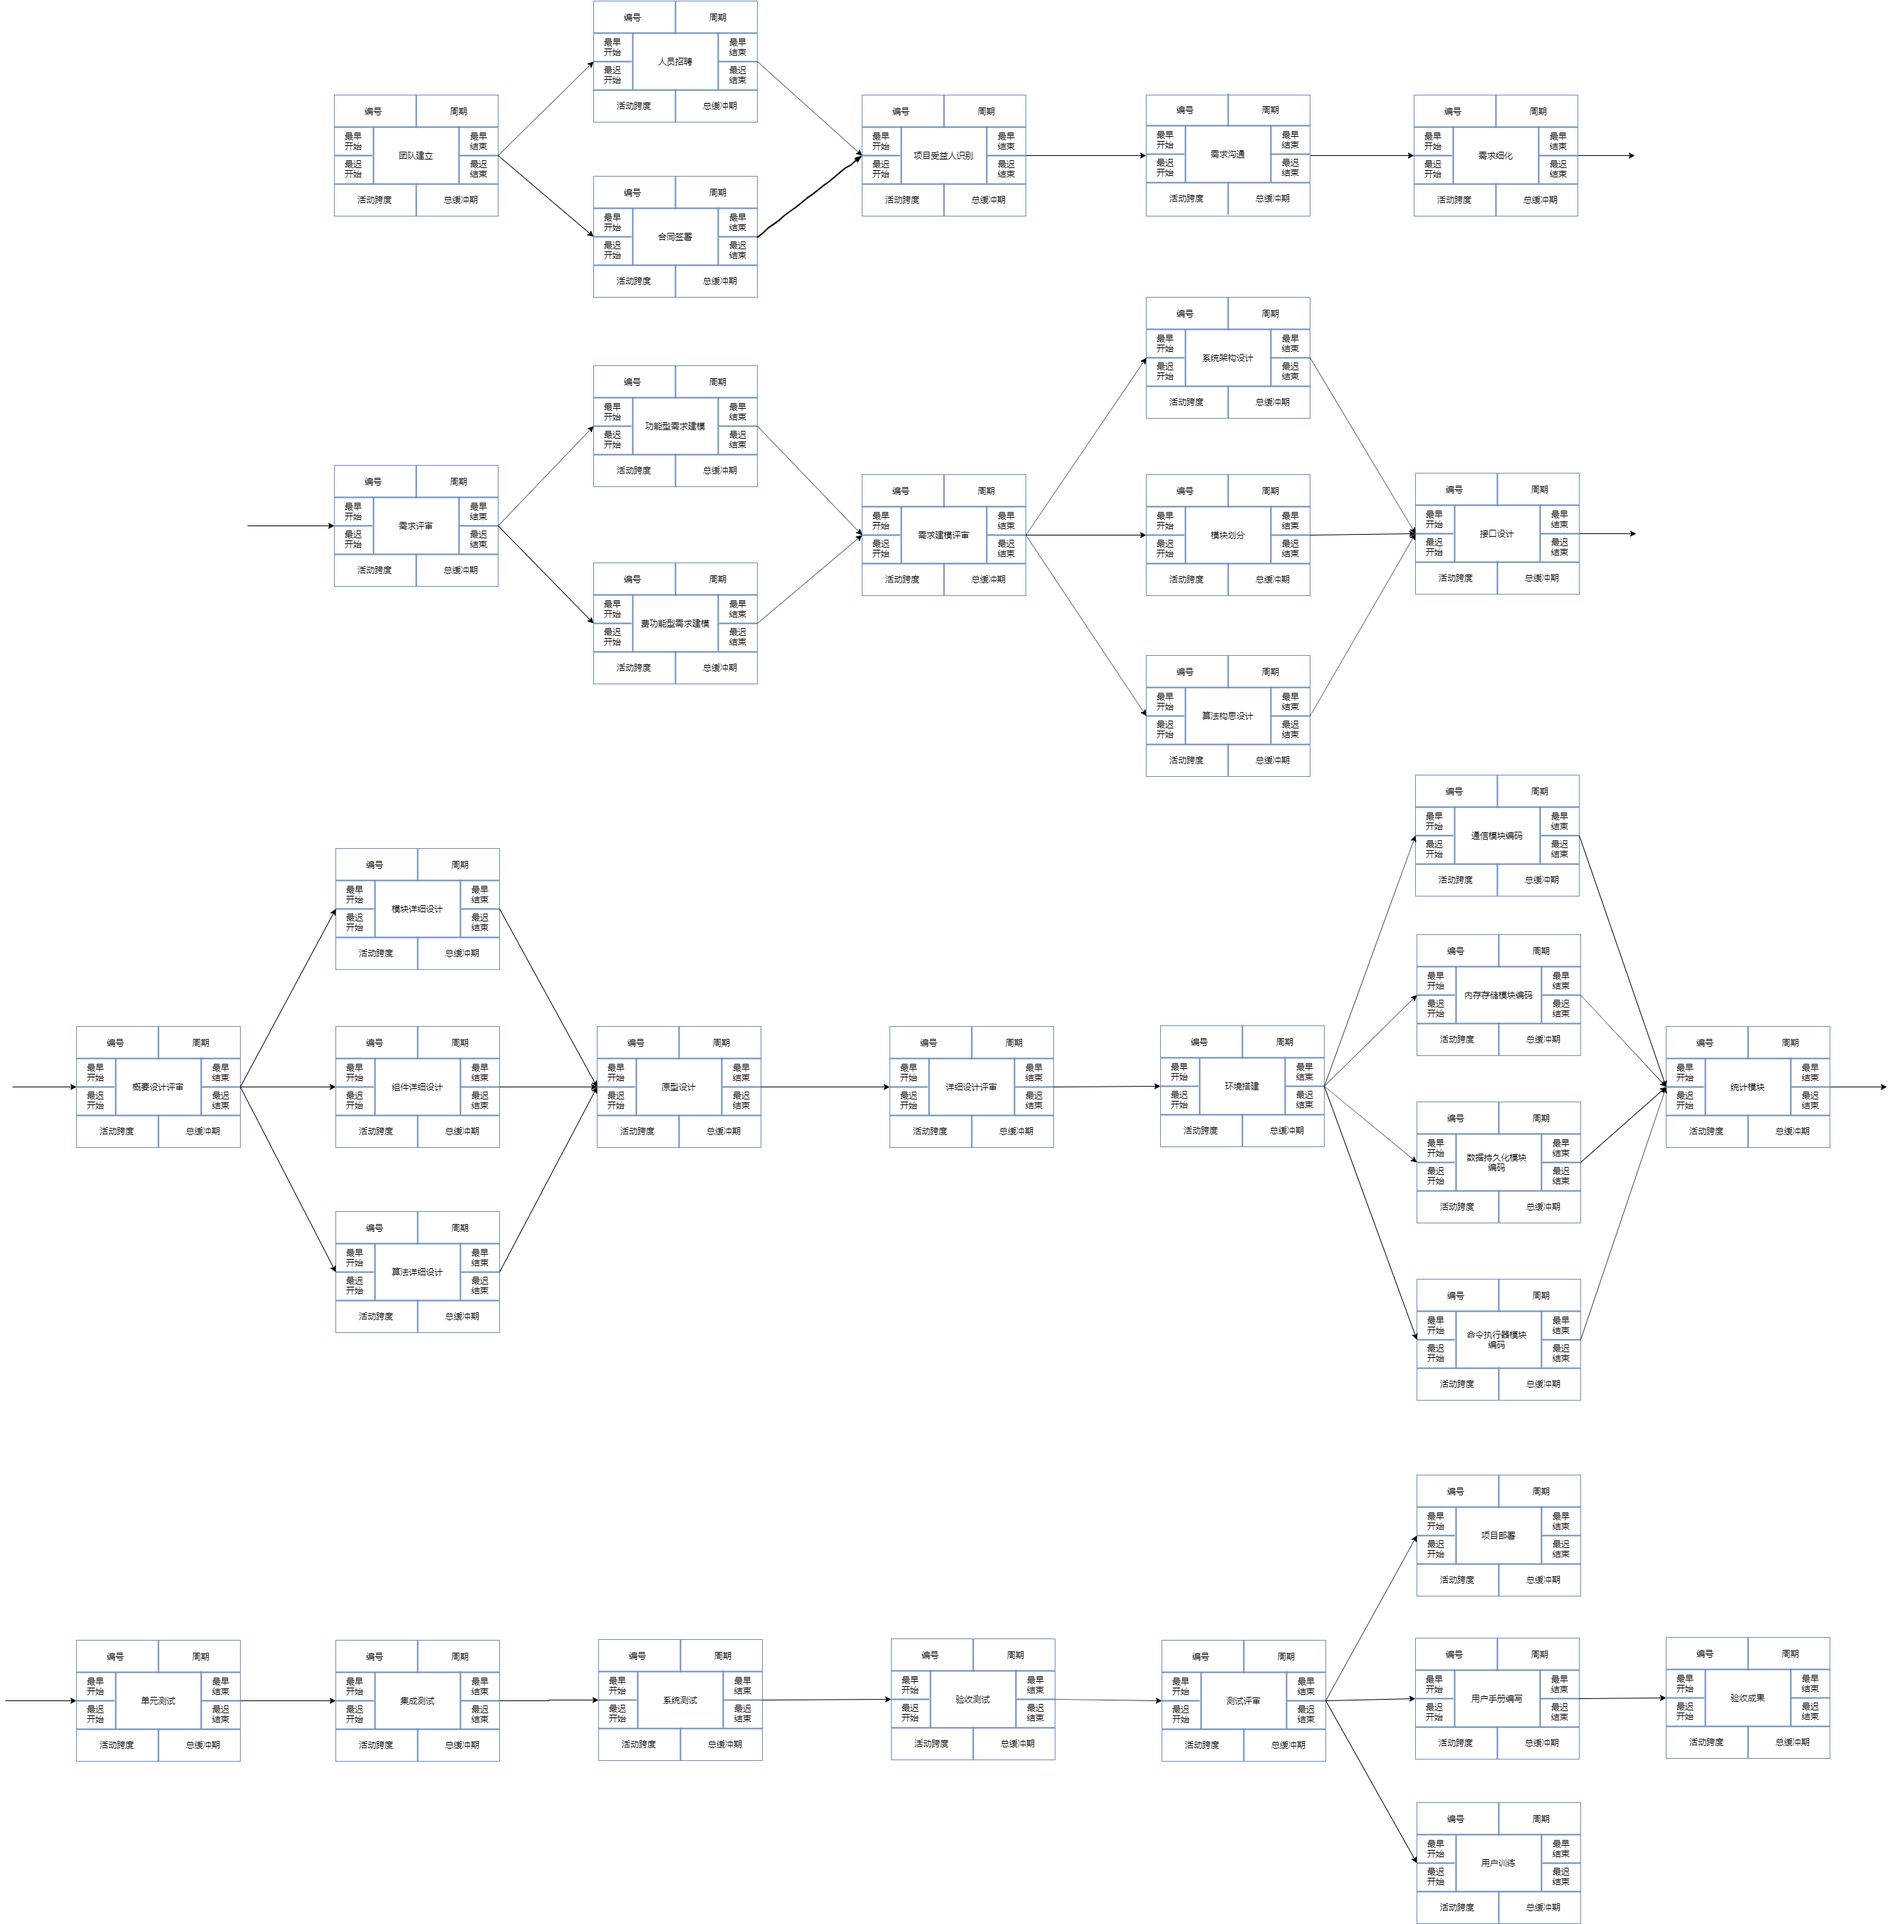
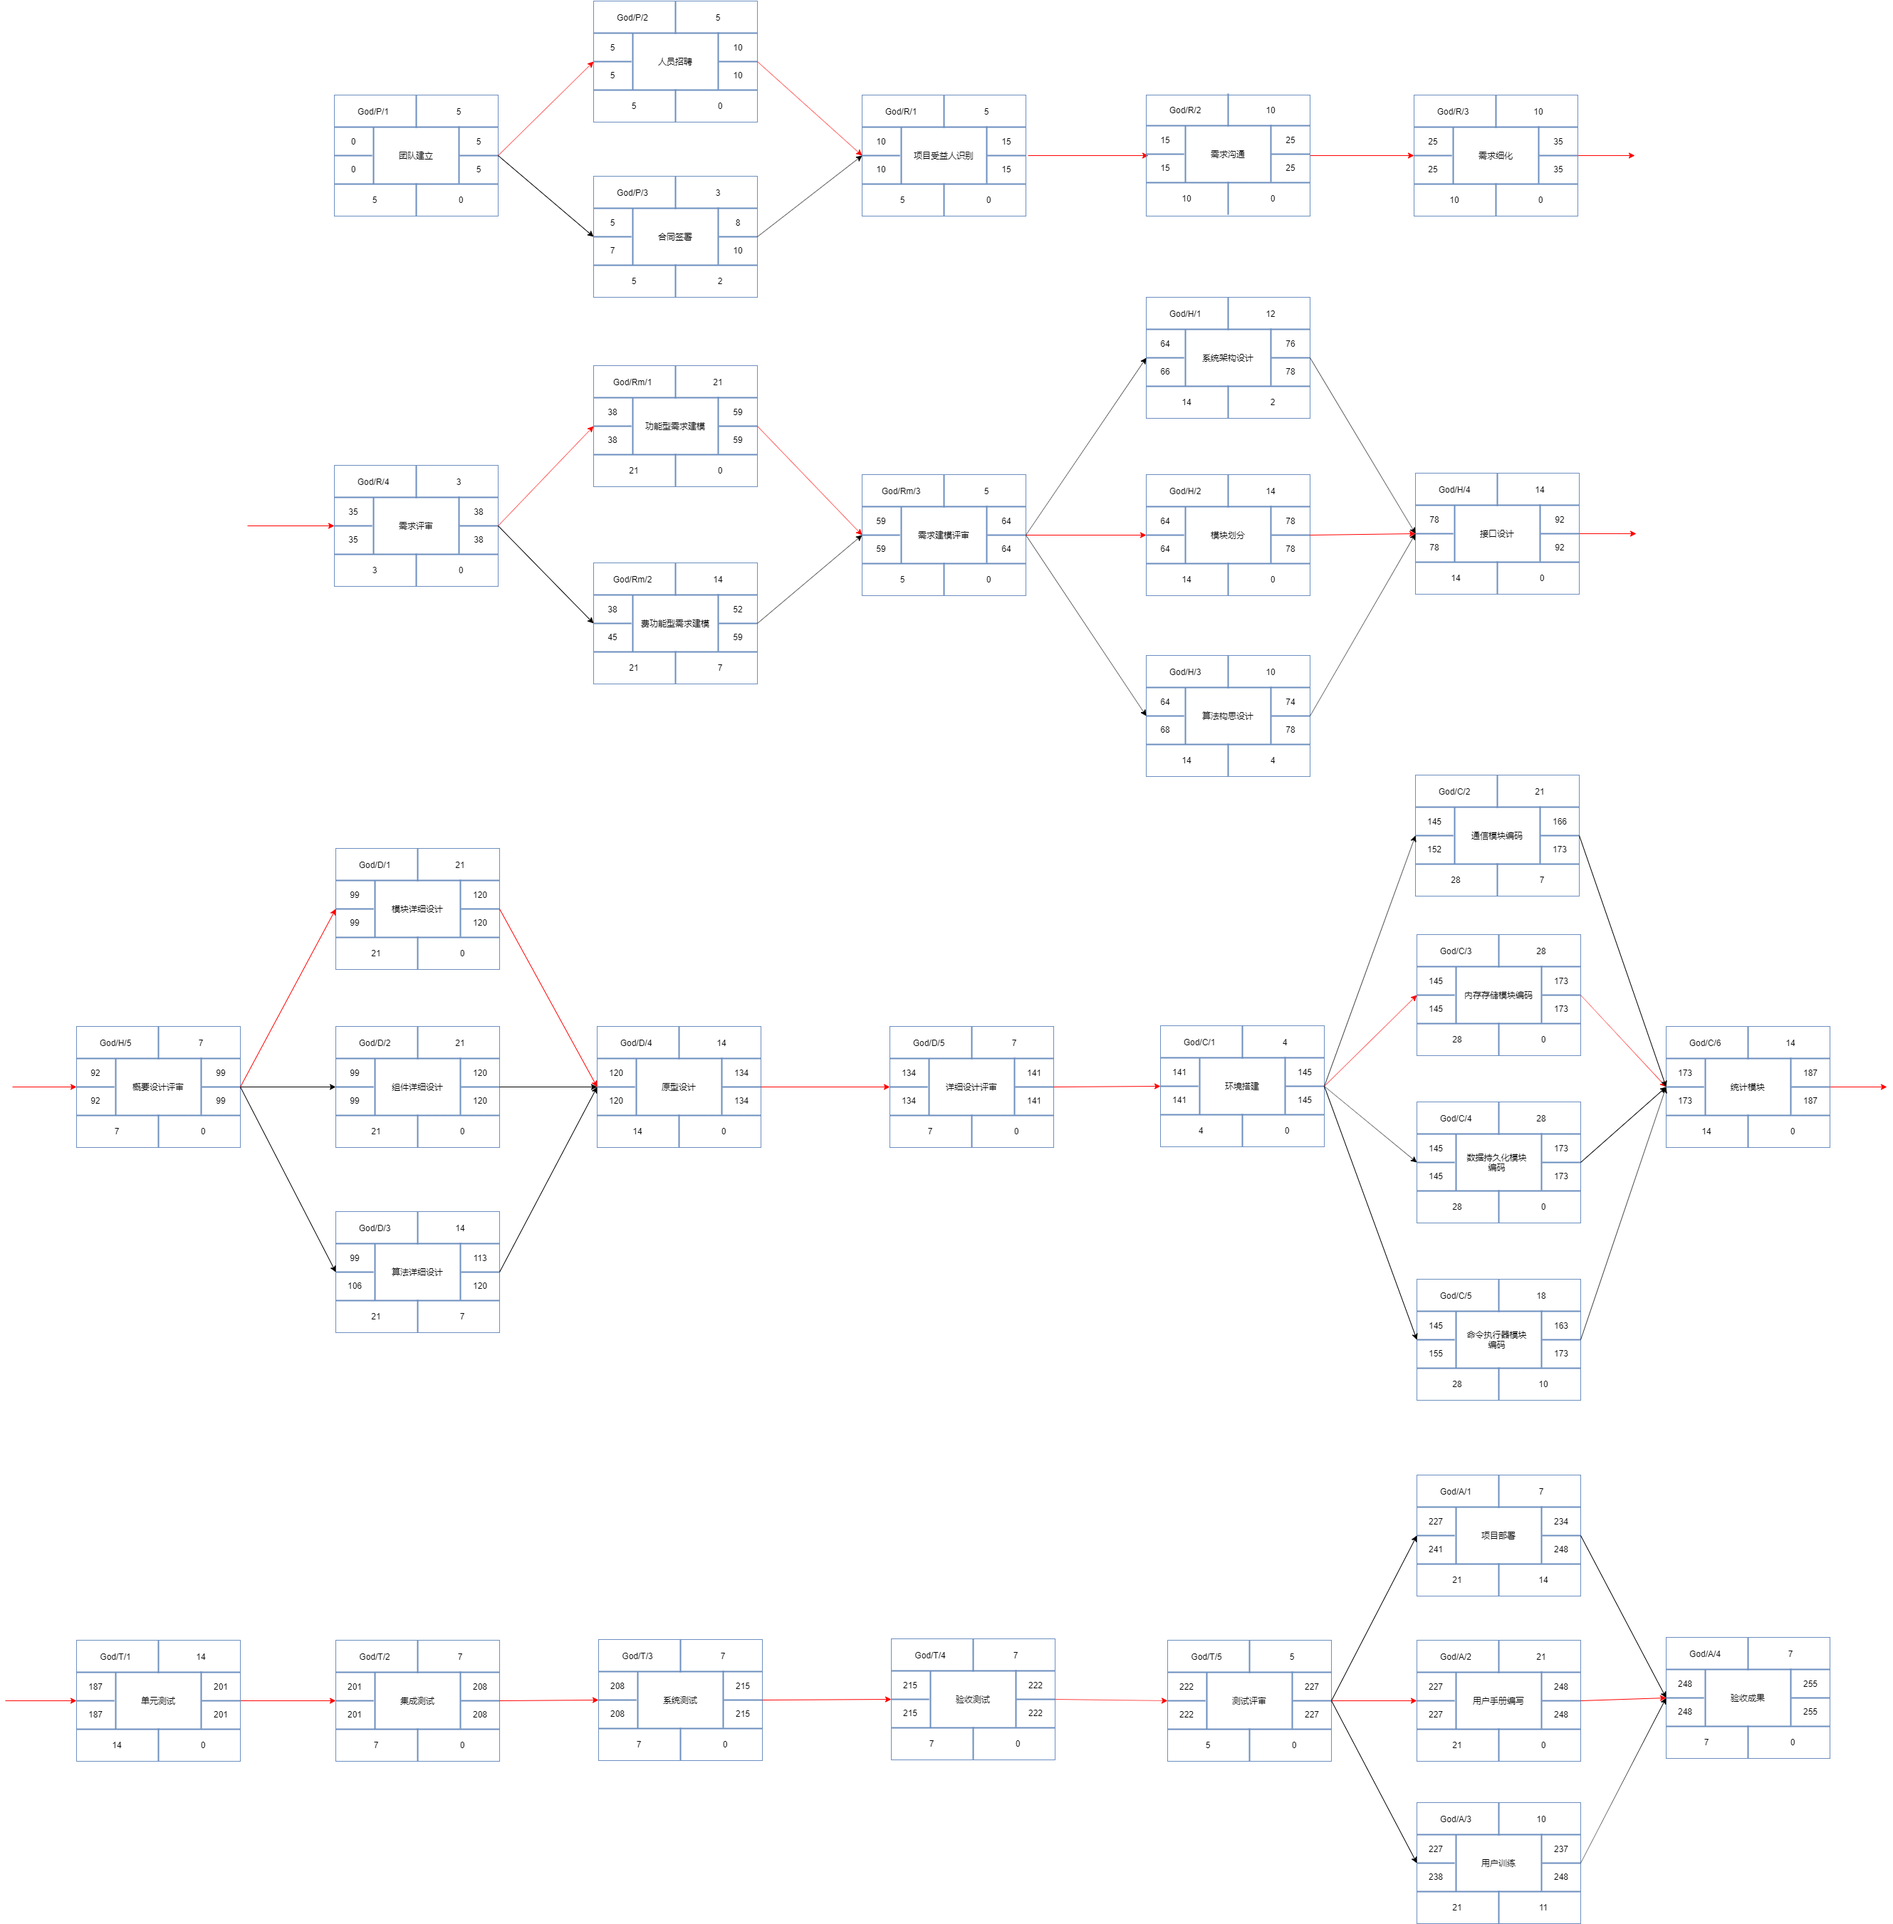
network

diff --git a/wbs.md b/wbs.md
@@ -1,58 +1,58 @@
 项目准备
 
-* 团队建立
-* 人员招聘
-* 合同签署
+* 团队建立              	   5天
+  * 人员招聘              5天
+  * 合同签署              3天
 
 需求分析
 
-* 项目受益者识别
-* 需求沟通
-* 需求细化
-* 需求评审
+*  项目受益者识别         5天
+  * 需求沟通			  10天
+  * 需求细化              9天
+  * 需求评审              3天
 
 需求建模
 
-* 功能性需求建模
-* 非功能性需求建模
-* 需求建模评审
+* 功能性需求建模		  18天
+* 非功能性需求建模       12天
+* 需求建模评审              5天
 
 概要设计
 
-* 系统架构设计
-* 模块划分
-* 算法构思设计
-* 接口设计
-* 概要设计评审
+* 系统架构设计               12天
+* 模块划分                      14天
+* 算法构思设计               10天
+* 接口设计                      14天
+* 概要设计评审               7天
 
 详细设计
 
-* 模块设计
-* 组件设计
-* 算法设计
-* 原型设计
-* 详细设计评审
+* 模块设计                      21天
+* 组件设计                      21天
+* 算法设计                      14天
+* 原型设计                      14天
+* 详细设计评审               8天
 
 编码实现
 
-* 环境搭建
-* 通信模块编码
-* 内存存储模块编码
-* 数据持久化模块编码
-* 命令执行器模块编码
-* 统计模块编码
+* 环境搭建                               4天
+* 通信模块编码                        21天
+* 内存存储模块编码                 28天
+* 数据持久化模块编码             28天
+* 命令执行器模块编码             18天
+* 统计模块编码                        14天
 
 测试
 
-* 单元测试
-* 集成测试
-* 系统测试
-* 验收测试
-* 测试评审
+* 单元测试                               28天
+* 集成测试                               14天
+* 系统测试                               14天
+* 验收测试                               21天
+* 测试评审                               10天
 
 验收
 
-* 项目部署
-* 用户手册编写
-* 用户训练
-* 验收成果
+* 项目部署	                           7天
+* 用户手册编写                        21天
+* 用户训练                               20天
+* 验收成果                               14天
